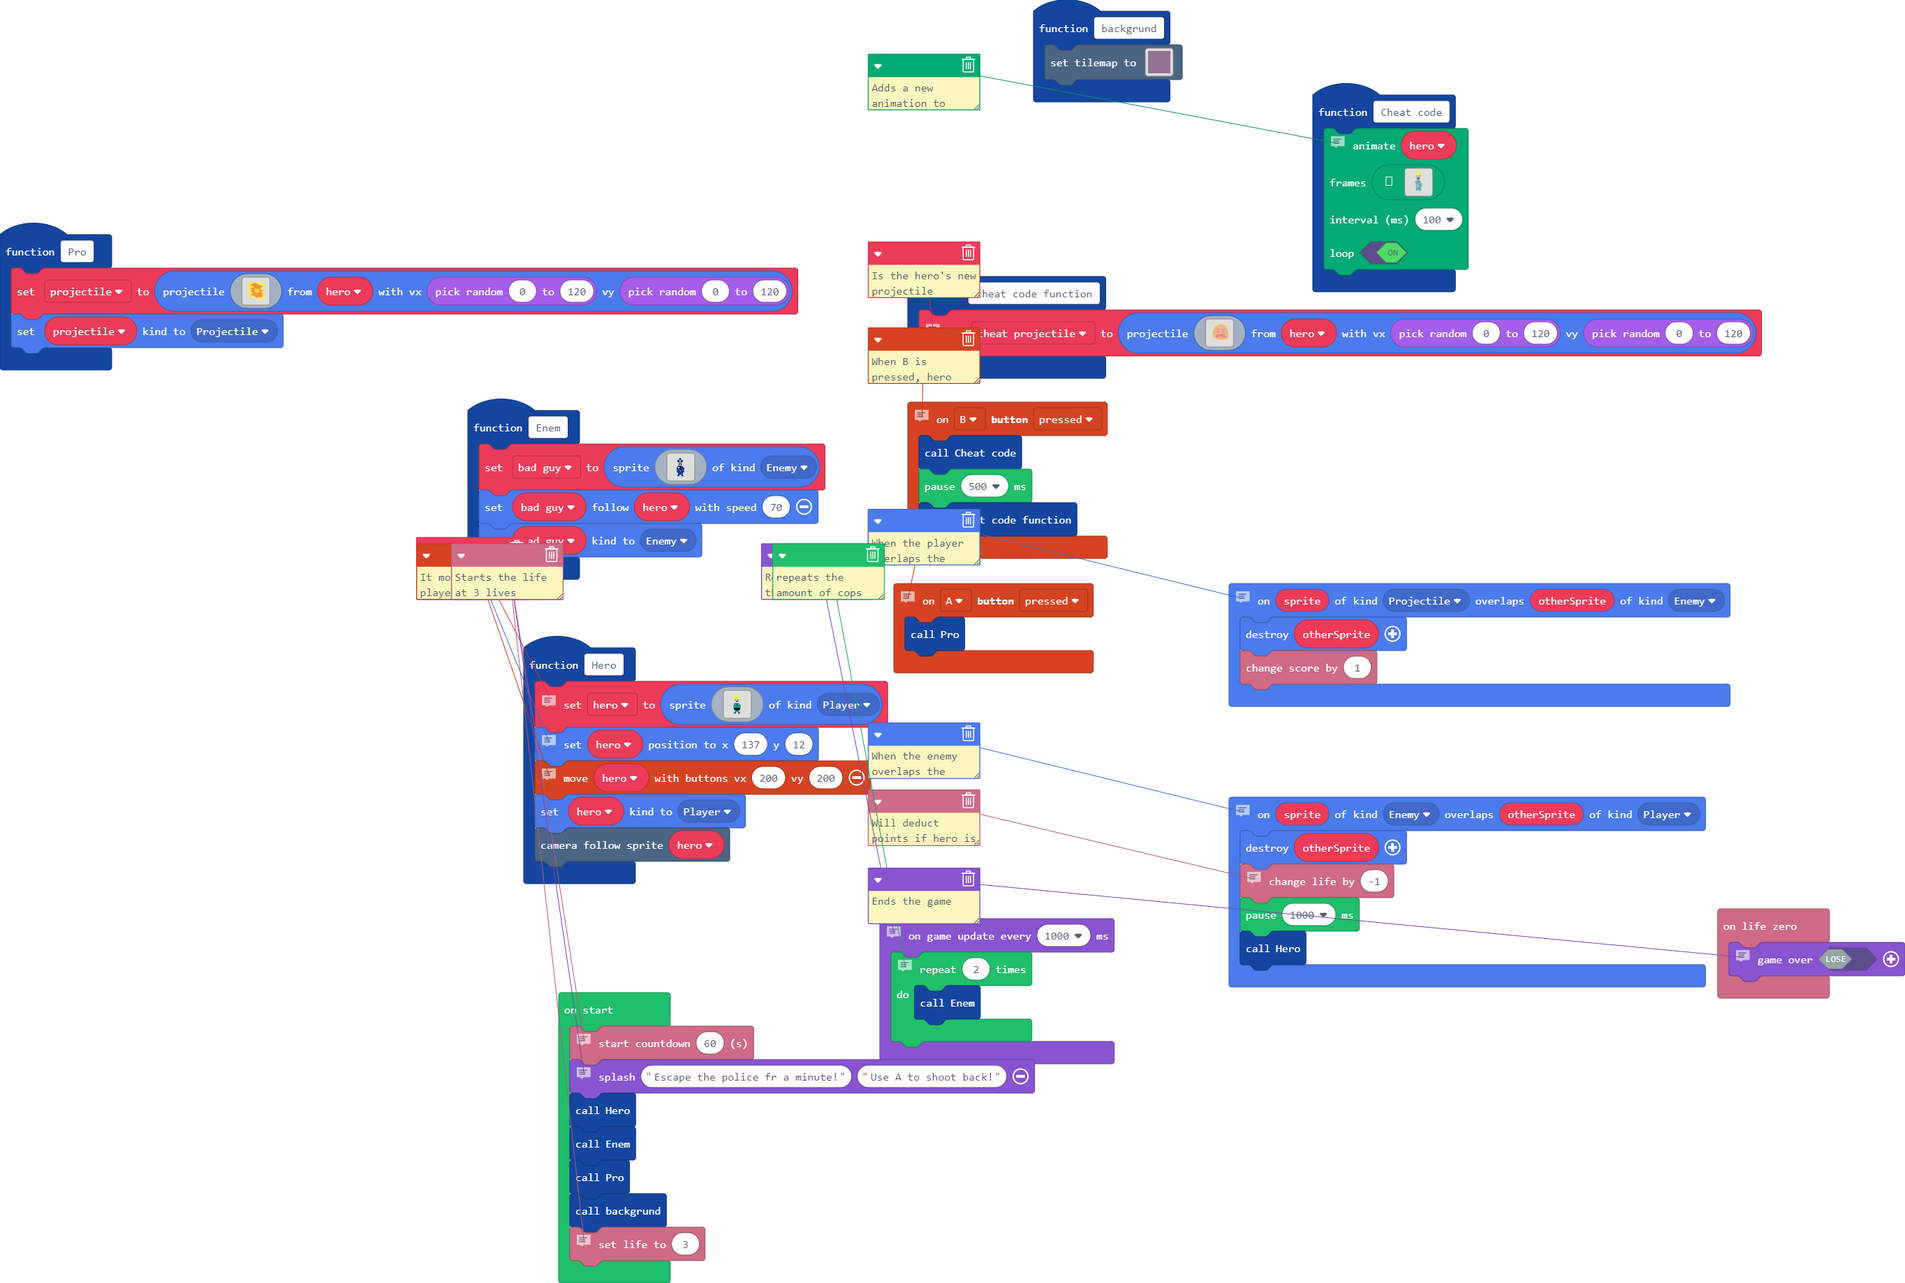
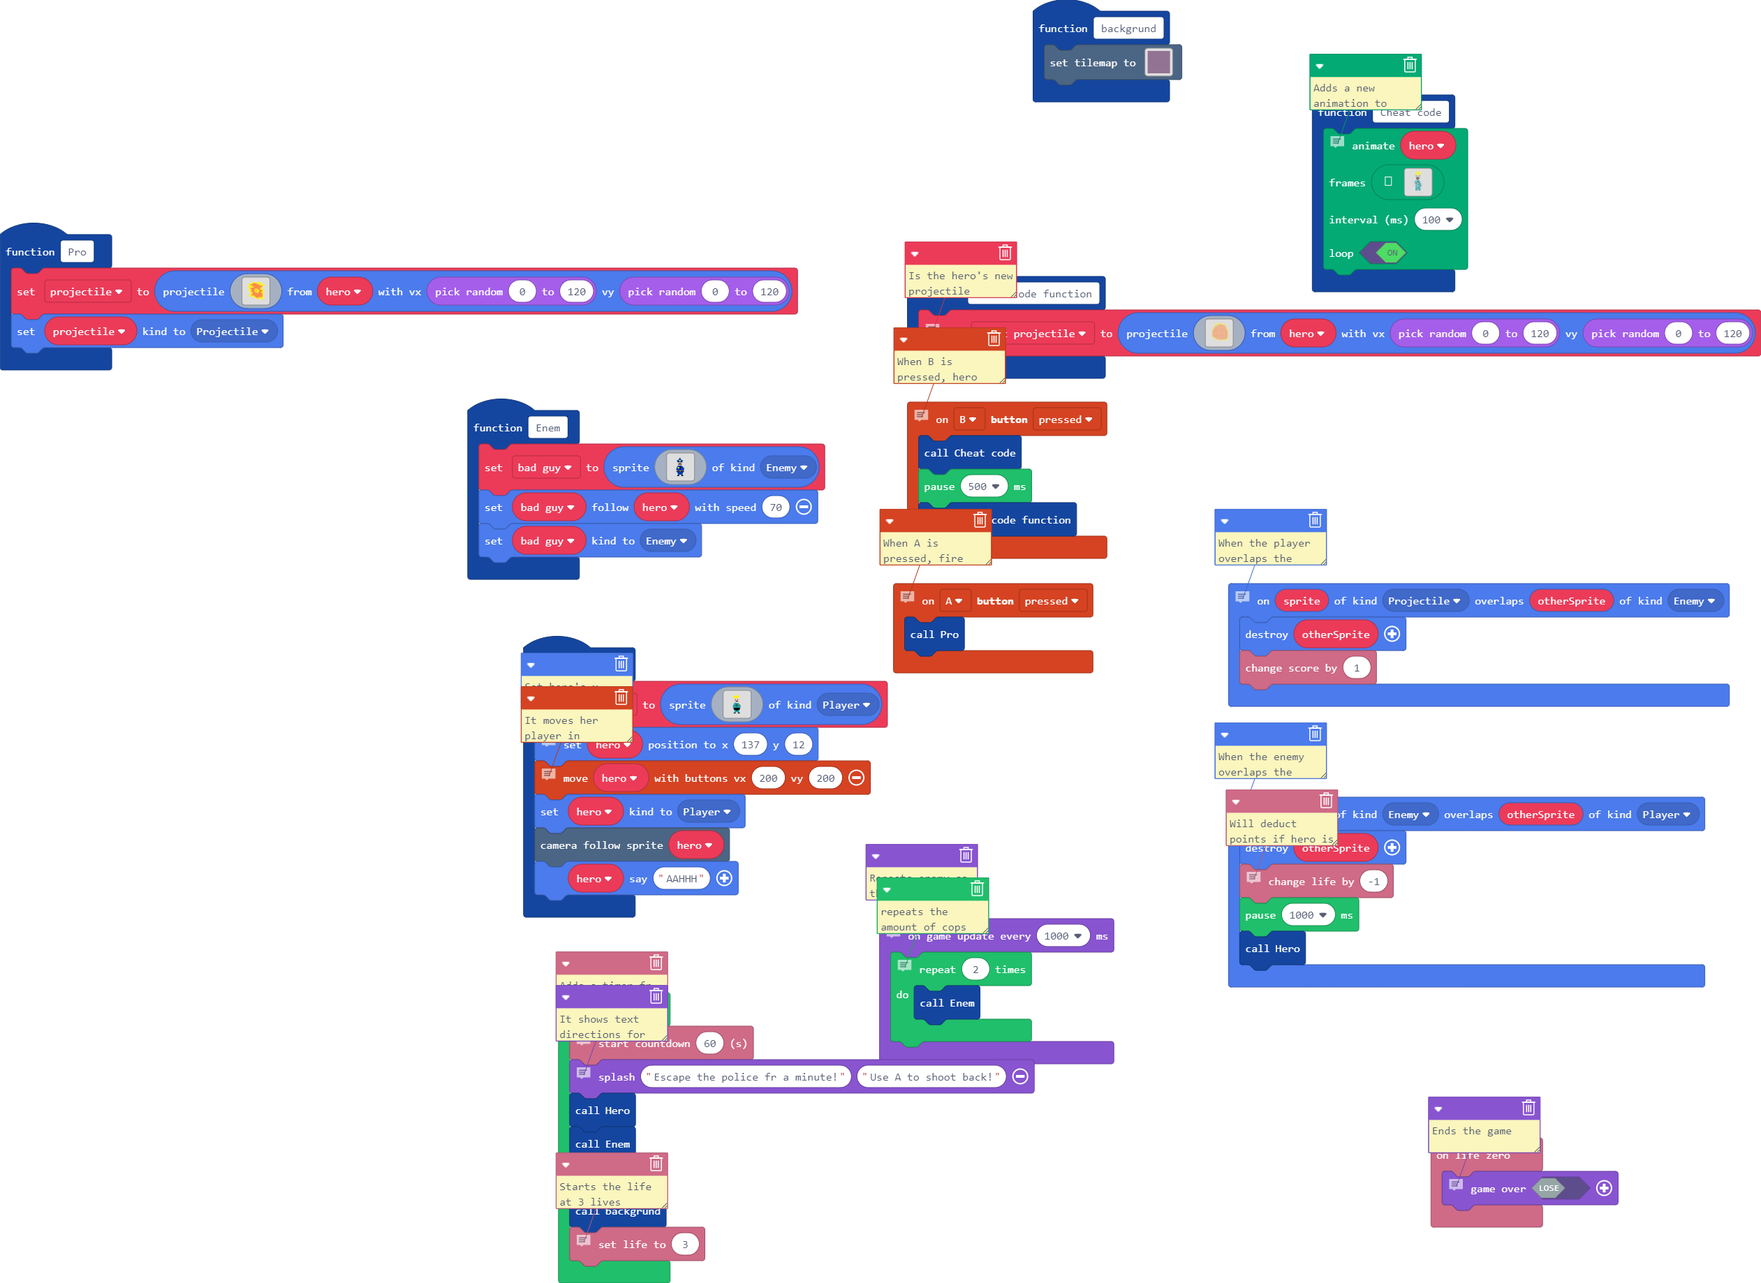
Update main.blocks, main.ts

diff --git a/main.ts b/main.ts
@@ -164,54 +164,54 @@ function cheat_code_function () {
 . . . . . . . . . . . . . . . . . . . . . . . . 5 5 5 5 5 5 4 4 4 4 4 4 4 4 4 4 4 4 4 4 4 4 4 4 4 4 4 4 4 4 4 4 4 4 4 4 4 4 4 4 4 4 4 4 4 4 4 4 4 4 4 4 4 4 4 4 5 5 5 5 . . . . . . . . . . . . . . . . 
 . . . . . . . . . . . . . . . . . . . . . . . 5 5 5 5 5 5 4 4 4 4 4 4 4 4 4 4 4 4 4 4 4 4 4 4 4 4 4 4 4 4 4 4 4 4 4 4 4 4 4 4 4 4 4 4 4 4 4 4 4 4 4 4 4 4 4 4 4 5 5 5 5 . . . . . . . . . . . . . . . . 
 . . . . . . . . . . . . . . . . . . . . . . . 5 5 5 5 5 5 4 4 4 4 4 4 4 4 4 4 4 4 4 4 4 4 4 4 4 4 4 4 4 4 4 4 4 4 4 4 4 4 4 4 4 4 4 4 4 4 4 4 4 4 4 4 4 4 4 4 4 4 5 5 5 5 . . . . . . . . . . . . . . . 
-. . . . . . . . . . . . . . . . . . . . . . . 5 5 5 4 4 4 4 4 4 4 4 4 4 4 2 2 2 2 4 4 4 4 4 4 4 4 4 4 4 4 4 4 4 4 4 4 4 4 4 4 4 4 4 4 4 4 4 4 4 4 4 4 4 4 4 4 4 4 5 5 5 5 . . . . . . . . . . . . . . . 
-. . . . . . . . . . . . . . . . . . . . . . 5 5 5 5 4 4 4 4 4 4 4 4 4 4 4 2 2 2 2 4 4 4 4 4 4 4 4 4 4 4 4 4 4 4 4 4 4 4 4 4 4 4 4 4 4 4 4 2 2 2 4 4 4 4 4 4 4 4 4 5 5 5 5 . . . . . . . . . . . . . . . 
-. . . . . . . . . . . . . . . . . . . . . 5 5 5 5 5 4 4 4 4 4 4 4 4 4 4 4 2 2 2 2 2 4 4 4 4 4 4 4 4 4 4 4 4 4 4 4 4 4 4 4 4 4 4 4 4 4 4 2 2 2 2 4 4 4 4 4 4 4 4 4 4 5 5 5 5 . . . . . . . . . . . . . . 
-. . . . . . . . . . . . . . . . . . . . . 5 5 5 5 4 4 4 4 4 4 4 4 4 4 4 4 4 2 2 2 2 2 4 4 4 4 4 4 4 4 4 4 4 4 4 4 4 4 4 4 4 4 4 4 4 4 2 2 2 2 2 4 4 4 4 4 4 4 4 4 4 5 5 5 5 . . . . . . . . . . . . . . 
-. . . . . . . . . . . . . . . . . . . . 5 5 5 5 5 4 4 4 4 4 4 4 4 4 4 4 4 4 4 2 2 2 2 2 4 4 4 4 4 4 4 4 4 4 4 4 4 4 4 4 4 4 4 4 4 4 4 2 2 2 2 4 4 4 4 4 4 4 4 4 4 4 5 5 5 5 . . . . . . . . . . . . . . 
-. . . . . . . . . . . . . . . . . . . . 5 5 5 5 4 4 4 4 4 4 4 4 4 4 4 4 4 4 4 2 2 2 2 2 4 4 4 4 4 4 4 4 4 4 4 4 4 4 4 4 4 4 4 4 4 4 2 2 2 2 2 4 4 4 4 4 4 4 4 4 4 4 4 5 5 5 . . . . . . . . . . . . . . 
-. . . . . . . . . . . . . . . . . . . 5 5 5 5 4 4 4 4 4 4 4 4 4 4 4 4 4 4 4 4 4 2 2 2 2 2 4 4 4 4 4 4 4 4 4 4 4 4 4 4 4 4 4 4 4 4 2 2 2 2 2 4 4 4 4 4 4 4 4 4 4 4 4 4 5 5 5 5 . . . . . . . . . . . . . 
-. . . . . . . . . . . . . . . . . . . 5 5 5 5 4 4 4 4 4 4 4 4 4 4 4 4 4 4 4 4 4 4 2 2 2 2 4 4 4 4 4 4 4 4 4 4 4 4 4 4 4 4 4 4 4 2 2 2 2 2 4 4 4 4 4 4 4 4 4 4 4 4 4 4 5 5 5 5 5 . . . . . . . . . . . . 
-. . . . . . . . . . . . . . . . . . 5 5 5 5 4 4 4 4 4 4 4 4 4 4 4 4 4 4 4 4 4 4 4 2 2 2 2 4 4 4 4 4 4 4 4 4 4 4 4 4 4 4 4 4 4 4 2 2 2 2 2 4 4 4 4 4 4 4 4 4 4 4 4 4 4 4 5 5 5 5 5 . . . . . . . . . . . 
-. . . . . . . . . . . . . . . . . . 5 5 5 5 4 4 4 4 4 4 4 4 4 4 4 4 4 4 4 4 4 4 4 4 4 4 4 4 4 4 4 4 4 4 4 4 4 4 4 4 4 4 4 4 4 4 2 2 2 4 4 4 4 4 4 4 4 4 4 4 4 4 4 4 4 4 5 5 5 5 5 5 . . . . . . . . . . 
+. . . . . . . . . . . . . . . . . . . . . . . 5 5 5 4 4 4 4 4 4 4 4 4 4 4 4 4 4 4 4 4 4 4 4 4 4 4 4 4 4 4 4 4 4 4 4 4 4 4 4 4 4 4 4 4 4 4 4 4 4 4 4 4 4 4 4 4 4 4 5 5 5 5 . . . . . . . . . . . . . . . 
+. . . . . . . . . . . . . . . . . . . . . . 5 5 5 5 4 4 4 4 4 4 4 4 4 4 4 4 4 4 4 4 4 4 4 4 4 4 4 4 4 4 4 4 4 4 4 4 4 4 4 4 4 4 4 4 4 4 4 4 4 4 4 4 4 4 4 4 4 4 4 5 5 5 5 . . . . . . . . . . . . . . . 
+. . . . . . . . . . . . . . . . . . . . . 5 5 5 5 5 4 4 4 4 4 4 4 4 4 4 4 4 4 4 4 4 4 4 4 4 4 4 4 4 4 4 4 4 4 4 4 4 4 4 4 4 4 4 4 4 4 4 4 4 4 4 4 4 4 4 4 4 4 4 4 4 5 5 5 5 . . . . . . . . . . . . . . 
+. . . . . . . . . . . . . . . . . . . . . 5 5 5 5 4 4 4 4 4 4 4 4 4 4 4 4 4 4 4 4 4 4 4 4 4 4 4 4 4 4 4 4 4 4 4 4 4 4 4 4 4 4 4 4 4 4 4 4 4 4 4 4 4 4 4 4 4 4 4 4 4 5 5 5 5 . . . . . . . . . . . . . . 
+. . . . . . . . . . . . . . . . . . . . 5 5 5 5 5 4 4 4 4 4 4 4 4 4 4 4 4 4 4 4 4 4 4 4 4 4 4 4 4 4 4 4 4 4 4 4 4 4 4 4 4 4 4 4 4 4 4 4 4 4 4 4 4 4 4 4 4 4 4 4 4 4 5 5 5 5 . . . . . . . . . . . . . . 
+. . . . . . . . . . . . . . . . . . . . 5 5 5 5 4 4 4 4 4 4 4 4 4 4 4 4 4 4 4 4 4 4 4 4 4 4 4 4 4 4 4 4 4 4 4 4 4 4 4 4 4 4 4 4 4 4 4 4 4 4 4 4 4 4 4 4 4 4 4 4 4 4 4 5 5 5 . . . . . . . . . . . . . . 
+. . . . . . . . . . . . . . . . . . . 5 5 5 5 4 4 4 4 4 4 4 4 4 4 4 4 4 4 4 4 4 4 4 4 4 4 4 4 4 4 4 4 4 4 4 4 4 4 4 4 4 4 4 4 4 4 4 4 4 4 4 4 4 4 4 4 4 4 4 4 4 4 4 4 5 5 5 5 . . . . . . . . . . . . . 
+. . . . . . . . . . . . . . . . . . . 5 5 5 5 4 4 4 4 4 4 4 4 4 4 4 4 4 4 4 4 4 4 4 4 4 4 4 4 4 4 4 4 4 4 4 4 4 4 4 4 4 4 4 4 4 4 4 4 4 4 4 4 4 4 4 4 4 4 4 4 4 4 4 4 5 5 5 5 5 . . . . . . . . . . . . 
+. . . . . . . . . . . . . . . . . . 5 5 5 5 4 4 4 4 4 4 4 4 4 4 4 4 4 4 4 4 4 4 4 4 4 4 4 4 4 4 4 4 4 4 4 4 4 4 4 4 4 4 4 4 4 4 4 4 4 4 4 4 4 4 4 4 4 4 4 4 4 4 4 4 4 4 5 5 5 5 5 . . . . . . . . . . . 
+. . . . . . . . . . . . . . . . . . 5 5 5 5 4 4 4 4 4 4 4 4 4 4 4 4 4 4 4 4 4 4 4 4 4 4 4 4 4 4 4 4 4 4 4 4 4 4 4 4 4 4 4 4 4 4 4 4 4 4 4 4 4 4 4 4 4 4 4 4 4 4 4 4 4 4 5 5 5 5 5 5 . . . . . . . . . . 
 . . . . . . . . . . . . . . . . . 5 5 5 5 4 4 4 4 4 4 4 4 4 4 4 4 4 4 4 4 4 4 4 4 4 4 4 4 4 4 4 4 4 4 4 4 4 4 4 4 4 4 4 4 4 4 4 4 4 4 4 4 4 4 4 4 4 4 4 4 4 4 4 4 4 4 4 4 4 5 5 5 5 . . . . . . . . . . 
 . . . . . . . . . . . . . . . . . 5 5 5 5 4 4 4 4 4 4 4 4 4 4 4 4 4 4 4 4 4 4 4 4 4 4 4 4 4 4 4 4 4 4 4 4 4 4 4 4 4 4 4 4 4 4 4 4 4 4 4 4 4 4 4 4 4 4 4 4 4 4 4 4 4 4 4 4 4 5 5 5 5 5 . . . . . . . . . 
 . . . . . . . . . . . . . . . . 5 5 5 5 4 4 4 4 4 4 4 4 4 4 4 4 4 4 4 4 4 4 4 4 4 4 4 4 4 4 4 4 4 4 4 4 4 4 4 4 4 4 4 4 4 4 4 4 4 4 4 4 4 4 4 4 4 4 4 4 4 4 4 4 4 4 4 4 4 4 4 5 5 5 5 . . . . . . . . . 
-. . . . . . . . . . . . . . . . 5 5 5 5 4 4 4 4 4 4 4 4 4 4 4 4 4 4 4 4 4 4 4 4 4 4 4 2 2 2 4 4 4 4 4 4 4 4 4 4 4 4 4 4 4 4 4 2 2 2 4 4 4 4 4 4 4 4 4 4 4 4 4 4 4 4 4 4 4 4 4 5 5 5 5 . . . . . . . . . 
-. . . . . . . . . . . . . . . . 5 5 5 5 4 4 4 4 4 4 4 4 4 4 4 4 4 4 4 4 4 4 4 4 2 2 2 2 2 2 2 2 4 4 4 4 4 4 4 4 4 4 4 4 4 4 4 2 2 2 2 2 2 2 4 4 4 4 4 4 4 4 4 4 4 4 4 4 4 4 4 4 5 5 5 . . . . . . . . . 
-. . . . . . . . . . . . . . . . 5 5 5 4 4 4 4 4 4 4 4 4 4 4 4 4 4 4 4 4 4 4 4 4 2 2 2 2 2 2 2 2 4 4 4 4 4 4 4 4 4 4 4 4 4 4 2 2 2 2 2 2 2 2 4 4 4 4 4 4 4 4 4 4 4 4 4 4 4 4 4 4 5 5 5 5 . . . . . . . . 
-. . . . . . . . . . . . . . . . 5 5 5 4 4 4 4 4 4 4 4 4 4 4 4 4 4 4 4 4 4 4 4 4 2 2 2 2 2 2 2 2 4 4 4 4 4 4 4 4 4 4 4 4 4 4 2 2 2 2 2 2 2 2 4 4 4 4 4 4 4 4 4 4 4 4 4 4 4 4 4 4 5 5 5 5 . . . . . . . . 
-. . . . . . . . . . . . . . . . 5 5 5 4 4 4 4 4 4 4 4 4 4 4 4 4 4 4 4 4 4 4 4 4 2 2 2 2 2 2 2 2 4 4 4 4 4 4 4 4 4 4 4 4 4 4 2 2 2 2 2 2 2 2 4 4 4 4 4 4 4 4 4 4 4 4 4 4 4 4 4 4 4 5 5 5 . . . . . . . . 
-. . . . . . . . . . . . . . . . 5 5 5 4 4 4 4 4 4 4 4 4 4 4 4 4 4 4 4 4 4 4 4 2 2 2 2 2 2 2 2 2 4 4 4 4 4 4 4 4 4 4 4 4 4 4 2 2 2 2 2 2 2 2 2 4 4 4 4 4 4 4 4 4 4 4 4 4 4 4 4 4 4 5 5 5 . . . . . . . . 
-. . . . . . . . . . . . . . . . 5 5 5 4 4 4 4 4 4 4 4 4 4 4 4 4 4 4 4 4 4 4 4 2 2 2 2 2 2 2 2 2 4 4 4 4 4 4 4 4 4 4 4 4 4 4 2 2 2 2 2 2 2 2 2 4 4 4 4 4 4 4 4 4 4 4 4 4 4 4 4 4 4 5 5 5 . . . . . . . . 
-. . . . . . . . . . . . . . . . 5 5 5 4 4 4 4 4 4 4 4 4 4 4 4 4 4 4 4 4 4 4 4 2 2 2 2 2 2 4 4 4 4 4 4 4 4 4 4 4 4 4 4 4 4 4 4 4 2 2 2 2 2 2 2 4 4 4 4 4 4 4 4 4 4 4 4 4 4 4 4 4 4 5 5 5 . . . . . . . . 
-. . . . . . . . . . . . . . . . 5 5 5 4 4 4 4 4 4 4 4 4 4 4 4 4 4 4 4 4 4 4 4 2 2 2 2 2 2 4 4 4 4 4 4 4 4 4 4 4 4 4 4 4 4 4 4 4 4 2 2 2 2 2 2 4 4 4 4 4 4 4 4 4 4 4 4 4 4 4 4 4 4 5 5 5 . . . . . . . . 
-. . . . . . . . . . . . . . . . 5 5 5 4 4 4 4 4 4 4 4 4 4 4 4 4 4 4 4 4 4 4 4 2 2 2 2 2 2 4 4 4 4 4 4 4 4 4 4 4 4 4 4 4 4 4 4 4 4 2 2 2 2 2 2 4 4 4 4 4 4 4 4 4 4 4 4 4 4 4 4 4 4 5 5 5 . . . . . . . . 
-. . . . . . . . . . . . . . . . 5 5 5 4 4 4 4 4 4 4 4 4 4 4 4 4 4 4 4 4 4 4 4 4 4 4 2 2 2 4 4 4 4 4 4 4 4 4 4 4 4 4 4 4 4 4 4 4 4 4 4 4 4 4 2 4 4 4 4 4 4 4 4 4 4 4 4 4 4 4 4 4 5 5 5 5 . . . . . . . . 
-. . . . . . . . . . . . . . . . 5 5 5 4 4 4 4 4 4 4 4 4 4 4 4 4 4 4 4 4 4 4 4 4 4 4 2 4 4 4 4 4 4 4 4 4 4 4 4 4 4 4 4 4 4 4 4 4 4 4 4 4 4 4 2 4 4 4 4 4 4 4 4 4 4 4 4 4 4 4 4 4 5 5 5 5 . . . . . . . . 
-. . . . . . . . . . . . . . . . 5 5 5 4 4 4 4 4 4 4 4 4 4 4 4 4 4 4 4 4 4 4 4 4 4 4 2 4 4 4 4 4 4 4 4 4 4 4 4 4 4 4 4 4 4 4 4 4 4 4 4 4 4 4 2 4 4 4 4 4 4 4 4 4 4 4 4 4 4 4 4 4 5 5 5 . . . . . . . . . 
-. . . . . . . . . . . . . . . . 5 5 5 4 4 4 4 4 4 4 4 4 4 4 4 4 4 4 4 4 4 4 4 4 4 4 4 4 4 4 4 4 4 4 4 4 4 4 4 4 4 4 4 4 4 4 4 4 4 4 4 4 4 4 4 2 4 4 4 4 4 4 4 4 4 4 4 4 4 4 4 4 5 5 5 . . . . . . . . . 
-. . . . . . . . . . . . . . . . 5 5 5 4 4 4 4 4 4 4 4 4 4 4 4 4 4 4 4 4 4 4 4 4 4 4 4 4 4 4 4 4 4 4 4 4 2 2 2 2 2 2 2 2 2 2 2 2 2 2 4 4 4 4 4 2 2 4 4 4 4 4 4 4 4 4 4 4 4 4 4 4 5 5 5 . . . . . . . . . 
-. . . . . . . . . . . . . . . . 5 5 5 4 4 4 4 4 4 4 4 4 4 4 4 4 4 4 4 4 4 4 4 4 4 4 4 4 4 4 4 4 4 4 2 2 2 2 2 2 2 2 2 2 2 2 2 2 2 2 2 2 4 4 4 4 2 4 4 4 4 4 4 4 4 4 4 4 4 4 4 4 5 5 5 . . . . . . . . . 
-. . . . . . . . . . . . . . . . 5 5 5 4 4 4 4 4 4 4 4 4 4 4 4 4 4 4 4 4 4 4 4 4 4 4 4 4 4 4 2 2 2 2 2 2 2 2 2 2 2 2 2 2 2 2 2 2 2 2 2 2 2 4 4 4 2 4 4 4 4 4 4 4 4 4 4 4 4 4 4 4 5 5 5 . . . . . . . . . 
-. . . . . . . . . . . . . . . . 5 5 5 4 4 4 4 4 4 4 4 4 4 4 4 4 4 4 4 4 4 4 4 4 2 2 2 2 2 2 2 2 2 2 2 2 2 2 2 2 2 2 2 2 2 2 2 2 2 2 2 2 2 2 4 4 2 4 4 4 4 4 4 4 4 4 4 4 4 4 4 4 5 5 5 . . . . . . . . . 
-. . . . . . . . . . . . . . . . 5 5 5 4 4 4 4 4 4 4 4 4 4 4 4 4 4 4 4 4 4 4 2 2 2 2 2 2 2 2 2 2 2 2 2 2 2 2 2 2 2 2 2 2 2 2 2 2 2 2 2 2 2 2 2 4 4 4 4 4 4 4 4 4 4 4 4 4 4 4 4 4 5 5 5 . . . . . . . . . 
-. . . . . . . . . . . . . . . . 5 5 5 4 4 4 4 4 4 4 4 4 4 4 4 4 4 4 4 4 4 2 2 2 2 2 2 2 2 2 2 2 2 2 2 2 2 2 2 2 2 2 2 2 2 2 2 2 2 2 2 2 2 2 2 2 2 4 4 4 4 4 4 4 4 4 4 4 4 4 4 4 5 5 5 . . . . . . . . . 
-. . . . . . . . . . . . . . . . 5 5 5 4 4 4 4 4 4 4 4 4 4 4 4 4 4 4 4 4 4 2 2 2 2 2 2 2 2 2 2 2 2 2 2 2 2 2 2 2 2 2 2 2 2 2 2 2 2 2 2 2 2 2 2 2 2 2 4 4 4 4 4 4 4 4 4 4 4 4 4 4 5 5 5 . . . . . . . . . 
-. . . . . . . . . . . . . . . . 5 5 5 4 4 4 4 4 4 4 4 4 4 4 4 4 4 4 4 2 2 2 2 2 2 2 2 2 2 2 2 2 2 2 2 2 2 2 2 2 2 2 2 2 2 2 2 2 2 2 2 2 2 2 2 2 2 2 4 4 4 4 4 4 4 4 4 4 4 4 4 4 5 5 5 . . . . . . . . . 
-. . . . . . . . . . . . . . . . 5 5 5 4 4 4 4 4 4 4 4 4 4 4 4 4 4 4 4 2 2 2 2 2 2 2 2 2 2 2 2 2 2 2 2 2 2 2 2 2 2 2 2 2 2 2 2 2 2 2 2 2 2 2 2 2 2 2 2 2 4 4 4 4 4 4 4 4 4 4 4 4 5 5 5 . . . . . . . . . 
-. . . . . . . . . . . . . . . . . 5 5 5 4 4 4 4 4 4 4 4 4 4 4 4 4 4 2 2 2 2 2 2 2 2 2 2 2 2 2 2 2 2 2 2 2 2 2 2 2 2 2 2 2 2 2 2 2 2 2 2 2 2 2 2 2 2 2 2 4 4 4 4 4 4 4 4 4 4 4 4 5 5 5 . . . . . . . . . 
-. . . . . . . . . . . . . . . . . 5 5 5 5 4 4 4 4 4 4 4 4 4 4 4 4 4 2 2 2 2 2 2 2 2 2 2 2 2 2 2 2 2 2 2 2 2 2 2 2 2 2 2 2 2 2 2 2 2 2 2 2 2 2 2 2 2 2 2 2 4 4 4 4 4 4 4 4 4 4 4 5 5 5 . . . . . . . . . 
-. . . . . . . . . . . . . . . . . 5 5 5 5 4 4 4 4 4 4 4 4 4 4 4 4 4 2 2 2 2 2 2 2 2 2 2 2 2 2 2 2 2 2 4 4 4 4 2 4 4 4 4 4 2 2 2 2 2 2 2 2 2 2 2 2 2 2 2 2 2 4 4 4 4 4 4 4 4 4 4 5 5 5 . . . . . . . . . 
-. . . . . . . . . . . . . . . . . 5 5 5 5 4 5 4 4 4 4 4 4 4 4 4 4 4 2 2 2 2 2 2 2 2 2 2 2 2 2 2 4 4 4 4 4 4 4 2 4 4 4 4 4 4 4 4 2 2 2 2 2 2 2 2 2 2 2 2 2 2 4 4 4 4 4 4 4 4 4 4 5 5 5 . . . . . . . . . 
-. . . . . . . . . . . . . . . . . . 5 5 5 4 5 5 4 4 4 4 4 4 4 4 4 4 2 2 2 2 2 2 2 2 2 2 4 4 2 4 4 4 4 4 4 4 4 2 4 4 4 4 4 4 4 4 4 2 2 2 2 2 2 2 2 2 2 2 2 2 4 4 4 4 4 4 4 4 4 4 5 5 5 . . . . . . . . . 
-. . . . . . . . . . . . . . . . . . . 5 5 5 5 5 5 4 4 4 4 4 4 4 4 4 2 2 2 2 2 2 2 2 2 2 4 4 2 4 4 4 4 4 4 4 4 2 4 4 4 4 4 4 4 4 4 4 4 2 2 2 2 2 2 2 2 2 2 4 4 4 4 4 4 4 4 4 4 4 5 5 5 . . . . . . . . . 
-. . . . . . . . . . . . . . . . . . . . 5 5 5 5 5 5 4 4 4 4 4 4 4 4 2 2 2 2 2 2 4 4 4 4 4 4 2 4 4 4 4 4 4 4 4 2 4 4 4 4 4 4 4 4 4 4 4 2 4 2 2 2 2 2 2 2 4 4 4 4 4 4 4 4 4 4 4 4 5 5 5 . . . . . . . . . 
-. . . . . . . . . . . . . . . . . . . . . . 5 5 5 5 5 5 4 4 4 4 4 4 4 2 2 2 4 4 4 4 4 4 4 4 2 4 4 4 4 4 4 4 4 2 4 4 4 4 4 4 4 4 4 4 4 2 4 4 4 4 4 4 4 4 4 4 4 4 4 4 4 4 4 4 4 5 5 5 5 . . . . . . . . . 
-. . . . . . . . . . . . . . . . . . . . . . 5 5 5 5 5 5 5 5 4 4 4 4 4 2 2 2 4 4 4 4 4 4 4 4 2 4 4 4 4 4 4 4 4 4 4 4 4 4 4 4 4 4 4 4 4 2 4 4 4 4 4 4 4 4 4 4 4 4 4 4 4 4 4 4 4 5 5 5 5 . . . . . . . . . 
-. . . . . . . . . . . . . . . . . . . . . . 5 . . 5 5 5 5 5 5 5 5 4 4 4 4 4 4 4 4 4 4 4 4 4 2 4 4 4 4 4 4 4 4 4 4 4 4 4 4 4 4 4 4 4 4 2 4 4 4 4 4 4 4 4 4 4 4 4 4 4 4 4 4 4 5 5 5 5 5 . . . . . . . . . 
-. . . . . . . . . . . . . . . . . . . . . 5 . . . . . 5 5 5 5 5 5 4 4 4 4 4 4 4 4 4 4 4 4 4 2 2 4 4 4 4 4 4 4 4 4 4 4 4 4 4 4 4 4 4 4 2 4 4 4 4 4 4 4 4 4 4 4 4 4 4 4 4 4 5 5 5 5 5 . . . . . . . . . . 
-. . . . . . . . . . . . . . . . . . . . . 5 . . . . . . 5 5 5 5 5 4 4 5 4 4 4 4 4 4 4 4 4 4 4 2 4 4 4 4 4 4 4 4 4 4 4 4 4 4 4 4 4 4 4 2 4 4 4 4 4 4 4 4 4 4 4 4 4 4 4 4 5 5 5 5 5 5 . . . . . . . . . . 
+. . . . . . . . . . . . . . . . 5 5 5 5 4 4 4 4 4 4 4 4 4 4 4 4 4 4 4 4 4 4 4 4 4 4 4 4 4 4 4 4 4 4 4 4 4 4 4 4 4 4 4 4 4 4 4 4 4 4 4 4 4 4 4 4 4 4 4 4 4 4 4 4 4 4 4 4 4 4 4 5 5 5 5 . . . . . . . . . 
+. . . . . . . . . . . . . . . . 5 5 5 5 4 4 4 4 4 4 4 4 4 4 4 4 4 4 4 4 4 4 4 4 4 4 4 4 4 4 4 4 4 4 4 4 4 4 4 4 4 4 4 4 4 4 4 4 4 4 4 4 4 4 4 4 4 4 4 4 4 4 4 4 4 4 4 4 4 4 4 4 5 5 5 . . . . . . . . . 
+. . . . . . . . . . . . . . . . 5 5 5 4 4 4 4 4 4 4 4 4 4 4 4 4 4 4 4 4 4 4 4 4 4 4 4 4 4 4 4 4 4 4 4 4 4 4 4 4 4 4 4 4 4 4 4 4 4 4 4 4 4 4 4 4 4 4 4 4 4 4 4 4 4 4 4 4 4 4 4 4 5 5 5 5 . . . . . . . . 
+. . . . . . . . . . . . . . . . 5 5 5 4 4 4 4 4 4 4 4 4 4 4 4 4 4 4 4 4 4 4 4 4 4 4 4 4 4 4 4 4 4 4 4 4 4 4 4 4 4 4 4 4 4 4 4 4 4 4 4 4 4 4 4 4 4 4 4 4 4 4 4 4 4 4 4 4 4 4 4 4 5 5 5 5 . . . . . . . . 
+. . . . . . . . . . . . . . . . 5 5 5 4 4 4 4 4 4 4 4 4 4 4 4 4 4 4 4 4 4 4 4 4 4 4 4 4 4 4 4 4 4 4 4 4 4 4 4 4 4 4 4 4 4 4 4 4 4 4 4 4 4 4 4 4 4 4 4 4 4 4 4 4 4 4 4 4 4 4 4 4 4 5 5 5 . . . . . . . . 
+. . . . . . . . . . . . . . . . 5 5 5 4 4 4 4 4 4 4 4 4 4 4 4 4 4 4 4 4 4 4 4 4 4 4 4 4 4 4 4 4 4 4 4 4 4 4 4 4 4 4 4 4 4 4 4 4 4 4 4 4 4 4 4 4 4 4 4 4 4 4 4 4 4 4 4 4 4 4 4 4 4 5 5 5 . . . . . . . . 
+. . . . . . . . . . . . . . . . 5 5 5 4 4 4 4 4 4 4 4 4 4 4 4 4 4 4 4 4 4 4 4 4 4 4 4 4 4 4 4 4 4 4 4 4 4 4 4 4 4 4 4 4 4 4 4 4 4 4 4 4 4 4 4 4 4 4 4 4 4 4 4 4 4 4 4 4 4 4 4 4 4 5 5 5 . . . . . . . . 
+. . . . . . . . . . . . . . . . 5 5 5 4 4 4 4 4 4 4 4 4 4 4 4 4 4 4 4 4 4 4 4 4 4 4 4 4 4 4 4 4 4 4 4 4 4 4 4 4 4 4 4 4 4 4 4 4 4 4 4 4 4 4 4 4 4 4 4 4 4 4 4 4 4 4 4 4 4 4 4 4 4 5 5 5 . . . . . . . . 
+. . . . . . . . . . . . . . . . 5 5 5 4 4 4 4 4 4 4 4 4 4 4 4 4 4 4 4 4 4 4 4 4 4 4 4 4 4 4 4 4 4 4 4 4 4 4 4 4 4 4 4 4 4 4 4 4 4 4 4 4 4 4 4 4 4 4 4 4 4 4 4 4 4 4 4 4 4 4 4 4 4 5 5 5 . . . . . . . . 
+. . . . . . . . . . . . . . . . 5 5 5 4 4 4 4 4 4 4 4 4 4 4 4 4 4 4 4 4 4 4 4 4 4 4 4 4 4 4 4 4 4 4 4 4 4 4 4 4 4 4 4 4 4 4 4 4 4 4 4 4 4 4 4 4 4 4 4 4 4 4 4 4 4 4 4 4 4 4 4 4 4 5 5 5 . . . . . . . . 
+. . . . . . . . . . . . . . . . 5 5 5 4 4 4 4 4 4 4 4 4 4 4 4 4 4 4 4 4 4 4 4 4 4 4 4 4 4 4 4 4 4 4 4 4 4 4 4 4 4 4 4 4 4 4 4 4 4 4 4 4 4 4 4 4 4 4 4 4 4 4 4 4 4 4 4 4 4 4 4 4 5 5 5 5 . . . . . . . . 
+. . . . . . . . . . . . . . . . 5 5 5 4 4 4 4 4 4 4 4 4 4 4 4 4 4 4 4 4 4 4 4 4 4 4 4 4 4 4 4 4 4 4 4 4 4 4 4 4 4 4 4 4 4 4 4 4 4 4 4 4 4 4 4 4 4 4 4 4 4 4 4 4 4 4 4 4 4 4 4 4 5 5 5 5 . . . . . . . . 
+. . . . . . . . . . . . . . . . 5 5 5 4 4 4 4 4 4 4 4 4 4 4 4 4 4 4 4 4 4 4 4 4 4 4 4 4 4 4 4 4 4 4 4 4 4 4 4 4 4 4 4 4 4 4 4 4 4 4 4 4 4 4 4 4 4 4 4 4 4 4 4 4 4 4 4 4 4 4 4 4 5 5 5 . . . . . . . . . 
+. . . . . . . . . . . . . . . . 5 5 5 4 4 4 4 4 4 4 4 4 4 4 4 4 4 4 4 4 4 4 4 4 4 4 4 4 4 4 4 4 4 4 4 4 4 4 4 4 4 4 4 4 4 4 4 4 4 4 4 4 4 4 4 4 4 4 4 4 4 4 4 4 4 4 4 4 4 4 4 4 5 5 5 . . . . . . . . . 
+. . . . . . . . . . . . . . . . 5 5 5 4 4 4 4 4 4 4 4 4 4 4 4 4 4 4 4 4 4 4 4 4 4 4 4 4 4 4 4 4 4 4 4 4 4 4 4 4 4 4 4 4 4 4 4 4 4 4 4 4 4 4 4 4 4 4 4 4 4 4 4 4 4 4 4 4 4 4 4 4 5 5 5 . . . . . . . . . 
+. . . . . . . . . . . . . . . . 5 5 5 4 4 4 4 4 4 4 4 4 4 4 4 4 4 4 4 4 4 4 4 4 4 4 4 4 4 4 4 4 4 4 4 4 4 4 4 4 4 4 4 4 4 4 4 4 4 4 4 4 4 4 4 4 4 4 4 4 4 4 4 4 4 4 4 4 4 4 4 4 5 5 5 . . . . . . . . . 
+. . . . . . . . . . . . . . . . 5 5 5 4 4 4 4 4 4 4 4 4 4 4 4 4 4 4 4 4 4 4 4 4 4 4 4 4 4 4 4 4 4 4 4 4 4 4 4 4 4 4 4 4 4 4 4 4 4 4 4 4 4 4 4 4 4 4 4 4 4 4 4 4 4 4 4 4 4 4 4 4 5 5 5 . . . . . . . . . 
+. . . . . . . . . . . . . . . . 5 5 5 4 4 4 4 4 4 4 4 4 4 4 4 4 4 4 4 4 4 4 4 4 4 4 4 4 4 4 4 4 4 4 4 4 4 4 4 4 4 4 4 4 4 4 4 4 4 4 4 4 4 4 4 4 4 4 4 4 4 4 4 4 4 4 4 4 4 4 4 4 5 5 5 . . . . . . . . . 
+. . . . . . . . . . . . . . . . 5 5 5 4 4 4 4 4 4 4 4 4 4 4 4 4 4 4 4 4 4 4 4 4 4 4 4 4 4 4 4 4 4 4 4 4 4 4 4 4 4 4 4 4 4 4 4 4 4 4 4 4 4 4 4 4 4 4 4 4 4 4 4 4 4 4 4 4 4 4 4 4 5 5 5 . . . . . . . . . 
+. . . . . . . . . . . . . . . . 5 5 5 4 4 4 4 4 4 4 4 4 4 4 4 4 4 4 4 4 4 4 4 4 4 4 4 4 4 4 4 4 4 4 4 4 4 4 4 4 4 4 4 4 4 4 4 4 4 4 4 4 4 4 4 4 4 4 4 4 4 4 4 4 4 4 4 4 4 4 4 4 5 5 5 . . . . . . . . . 
+. . . . . . . . . . . . . . . . 5 5 5 4 4 4 4 4 4 4 4 4 4 4 4 4 4 4 4 4 4 4 4 4 4 4 4 4 4 4 4 4 4 4 4 4 4 4 4 4 4 4 4 4 4 4 4 4 4 4 4 4 4 4 4 4 4 4 4 4 4 4 4 4 4 4 4 4 4 4 4 4 5 5 5 . . . . . . . . . 
+. . . . . . . . . . . . . . . . 5 5 5 4 4 4 4 4 4 4 4 4 4 4 4 4 4 4 4 4 4 4 4 4 4 4 4 4 4 4 4 4 4 4 4 4 4 4 4 4 4 4 4 4 4 4 4 4 4 4 4 4 4 4 4 4 4 4 4 4 4 4 4 4 4 4 4 4 4 4 4 4 5 5 5 . . . . . . . . . 
+. . . . . . . . . . . . . . . . 5 5 5 4 4 4 4 4 4 4 4 4 4 4 4 4 4 4 4 4 4 4 4 4 4 4 4 4 4 4 4 4 4 4 4 4 4 4 4 4 4 4 4 4 4 4 4 4 4 4 4 4 4 4 4 4 4 4 4 4 4 4 4 4 4 4 4 4 4 4 4 4 5 5 5 . . . . . . . . . 
+. . . . . . . . . . . . . . . . . 5 5 5 4 4 4 4 4 4 4 4 4 4 4 4 4 4 4 4 4 4 4 4 4 4 4 4 4 4 4 4 4 4 4 4 4 4 4 4 4 4 4 4 4 4 4 4 4 4 4 4 4 4 4 4 4 4 4 4 4 4 4 4 4 4 4 4 4 4 4 4 5 5 5 . . . . . . . . . 
+. . . . . . . . . . . . . . . . . 5 5 5 5 4 4 4 4 4 4 4 4 4 4 4 4 4 4 4 4 4 4 4 4 4 4 4 4 4 4 4 4 4 4 4 4 4 4 4 4 4 4 4 4 4 4 4 4 4 4 4 4 4 4 4 4 4 4 4 4 4 4 4 4 4 4 4 4 4 4 4 5 5 5 . . . . . . . . . 
+. . . . . . . . . . . . . . . . . 5 5 5 5 4 4 4 4 4 4 4 4 4 4 4 4 4 4 4 4 4 4 4 4 4 4 4 4 4 4 4 4 4 4 4 4 4 4 4 4 4 4 4 4 4 4 4 4 4 4 4 4 4 4 4 4 4 4 4 4 4 4 4 4 4 4 4 4 4 4 4 5 5 5 . . . . . . . . . 
+. . . . . . . . . . . . . . . . . 5 5 5 5 4 5 4 4 4 4 4 4 4 4 4 4 4 4 4 4 4 4 4 4 4 4 4 4 4 4 4 4 4 4 4 4 4 4 4 4 4 4 4 4 4 4 4 4 4 4 4 4 4 4 4 4 4 4 4 4 4 4 4 4 4 4 4 4 4 4 4 5 5 5 . . . . . . . . . 
+. . . . . . . . . . . . . . . . . . 5 5 5 4 5 5 4 4 4 4 4 4 4 4 4 4 4 4 4 4 4 4 4 4 4 4 4 4 4 4 4 4 4 4 4 4 4 4 4 4 4 4 4 4 4 4 4 4 4 4 4 4 4 4 4 4 4 4 4 4 4 4 4 4 4 4 4 4 4 4 5 5 5 . . . . . . . . . 
+. . . . . . . . . . . . . . . . . . . 5 5 5 5 5 5 4 4 4 4 4 4 4 4 4 4 4 4 4 4 4 4 4 4 4 4 4 4 4 4 4 4 4 4 4 4 4 4 4 4 4 4 4 4 4 4 4 4 4 4 4 4 4 4 4 4 4 4 4 4 4 4 4 4 4 4 4 4 4 5 5 5 . . . . . . . . . 
+. . . . . . . . . . . . . . . . . . . . 5 5 5 5 5 5 4 4 4 4 4 4 4 4 4 4 4 4 4 4 4 4 4 4 4 4 4 4 4 4 4 4 4 4 4 4 4 4 4 4 4 4 4 4 4 4 4 4 4 4 4 4 4 4 4 4 4 4 4 4 4 4 4 4 4 4 4 4 5 5 5 . . . . . . . . . 
+. . . . . . . . . . . . . . . . . . . . . . 5 5 5 5 5 5 4 4 4 4 4 4 4 4 4 4 4 4 4 4 4 4 4 4 4 4 4 4 4 4 4 4 4 4 4 4 4 4 4 4 4 4 4 4 4 4 4 4 4 4 4 4 4 4 4 4 4 4 4 4 4 4 4 4 4 5 5 5 5 . . . . . . . . . 
+. . . . . . . . . . . . . . . . . . . . . . 5 5 5 5 5 5 5 5 4 4 4 4 4 4 4 4 4 4 4 4 4 4 4 4 4 4 4 4 4 4 4 4 4 4 4 4 4 4 4 4 4 4 4 4 4 4 4 4 4 4 4 4 4 4 4 4 4 4 4 4 4 4 4 4 4 5 5 5 5 . . . . . . . . . 
+. . . . . . . . . . . . . . . . . . . . . . 5 . . 5 5 5 5 5 5 5 5 4 4 4 4 4 4 4 4 4 4 4 4 4 4 4 4 4 4 4 4 4 4 4 4 4 4 4 4 4 4 4 4 4 4 4 4 4 4 4 4 4 4 4 4 4 4 4 4 4 4 4 4 4 5 5 5 5 5 . . . . . . . . . 
+. . . . . . . . . . . . . . . . . . . . . 5 . . . . . 5 5 5 5 5 5 4 4 4 4 4 4 4 4 4 4 4 4 4 4 4 4 4 4 4 4 4 4 4 4 4 4 4 4 4 4 4 4 4 4 4 4 4 4 4 4 4 4 4 4 4 4 4 4 4 4 4 4 5 5 5 5 5 . . . . . . . . . . 
+. . . . . . . . . . . . . . . . . . . . . 5 . . . . . . 5 5 5 5 5 4 4 5 4 4 4 4 4 4 4 4 4 4 4 4 4 4 4 4 4 4 4 4 4 4 4 4 4 4 4 4 4 4 4 4 4 4 4 4 4 4 4 4 4 4 4 4 4 4 4 4 5 5 5 5 5 5 . . . . . . . . . . 
 . . . . . . . . . . . . . . . . . . . . . . 5 . . . . . . . 5 5 5 5 4 5 5 4 4 4 4 4 4 4 4 4 4 4 4 4 4 4 4 4 4 4 4 4 4 4 4 4 4 4 4 4 4 4 4 4 4 4 4 4 4 4 4 4 4 4 4 4 4 5 5 5 5 5 5 . . . . . . . . . . . 
 . . . . . . . . . . . . . . . . . . . . . . 5 . . . . . . . . . 5 5 5 5 5 5 4 4 4 4 4 4 4 4 4 4 4 4 4 4 4 4 4 4 4 4 4 4 4 4 4 4 4 4 4 4 4 4 4 4 4 4 4 4 4 4 4 4 4 4 5 5 5 5 5 5 . . . . . . . . . . . . 
 . . . . . . . . . . . . . . . . . . . . . . 5 . . . . . . . . . . 5 5 5 5 5 5 5 4 4 4 4 4 4 4 4 4 4 4 4 4 4 4 4 4 4 4 4 4 4 4 4 4 4 4 4 4 4 4 4 4 4 4 4 4 4 4 4 5 5 5 5 5 5 5 . . . . . . . . . . . . . 
@@ -318,6 +318,7 @@ function Hero () {
     controller.moveSprite(hero, 200, 200)
     hero.setKind(SpriteKind.Player)
     scene.cameraFollowSprite(hero)
+    hero.say("AAHHH")
 }
 function Cheat_code () {
     // Adds a new animation to character and transform
